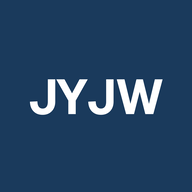
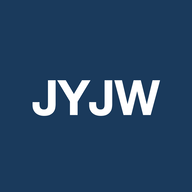
Updated fonts

Changed region(s): [[0.4375, 0.4062, 0.8438, 0.625], [0.1562, 0.4062, 0.4688, 0.625], [0.6562, 0.5938, 0.6875, 0.625]]

diff --git a/index.html b/index.html
@@ -6,7 +6,7 @@
     <meta name="description" content="Investment AI Suite — a collection of AI-powered tools for automating personal investment workflows." />
     <link rel="preconnect" href="https://fonts.googleapis.com" />
     <link rel="preconnect" href="https://fonts.gstatic.com" crossorigin />
-    <link href="https://fonts.googleapis.com/css2?family=Geist:wght@400;500;600;700&family=JetBrains+Mono:wght@400;500&display=swap" rel="stylesheet" />
+    <link href="https://fonts.googleapis.com/css2?family=JetBrains+Mono:wght@400;500&display=swap" rel="stylesheet" />
     <title>Investment AI Suite</title>
     <link rel="icon" href="%BASE_URL%favicon.ico" sizes="32x32">
     <link rel="icon" href="%BASE_URL%favicon.svg" type="image/svg+xml">

diff --git a/tailwind.config.js b/tailwind.config.js
@@ -15,7 +15,7 @@ export default {
         },
       },
       fontFamily: {
-        sans: ['Geist', 'system-ui', 'sans-serif'],
+        sans: ['Helvetica Neue', 'Helvetica', 'Arial', 'sans-serif'],
         mono: ['JetBrains Mono', 'monospace'],
       },
     },
